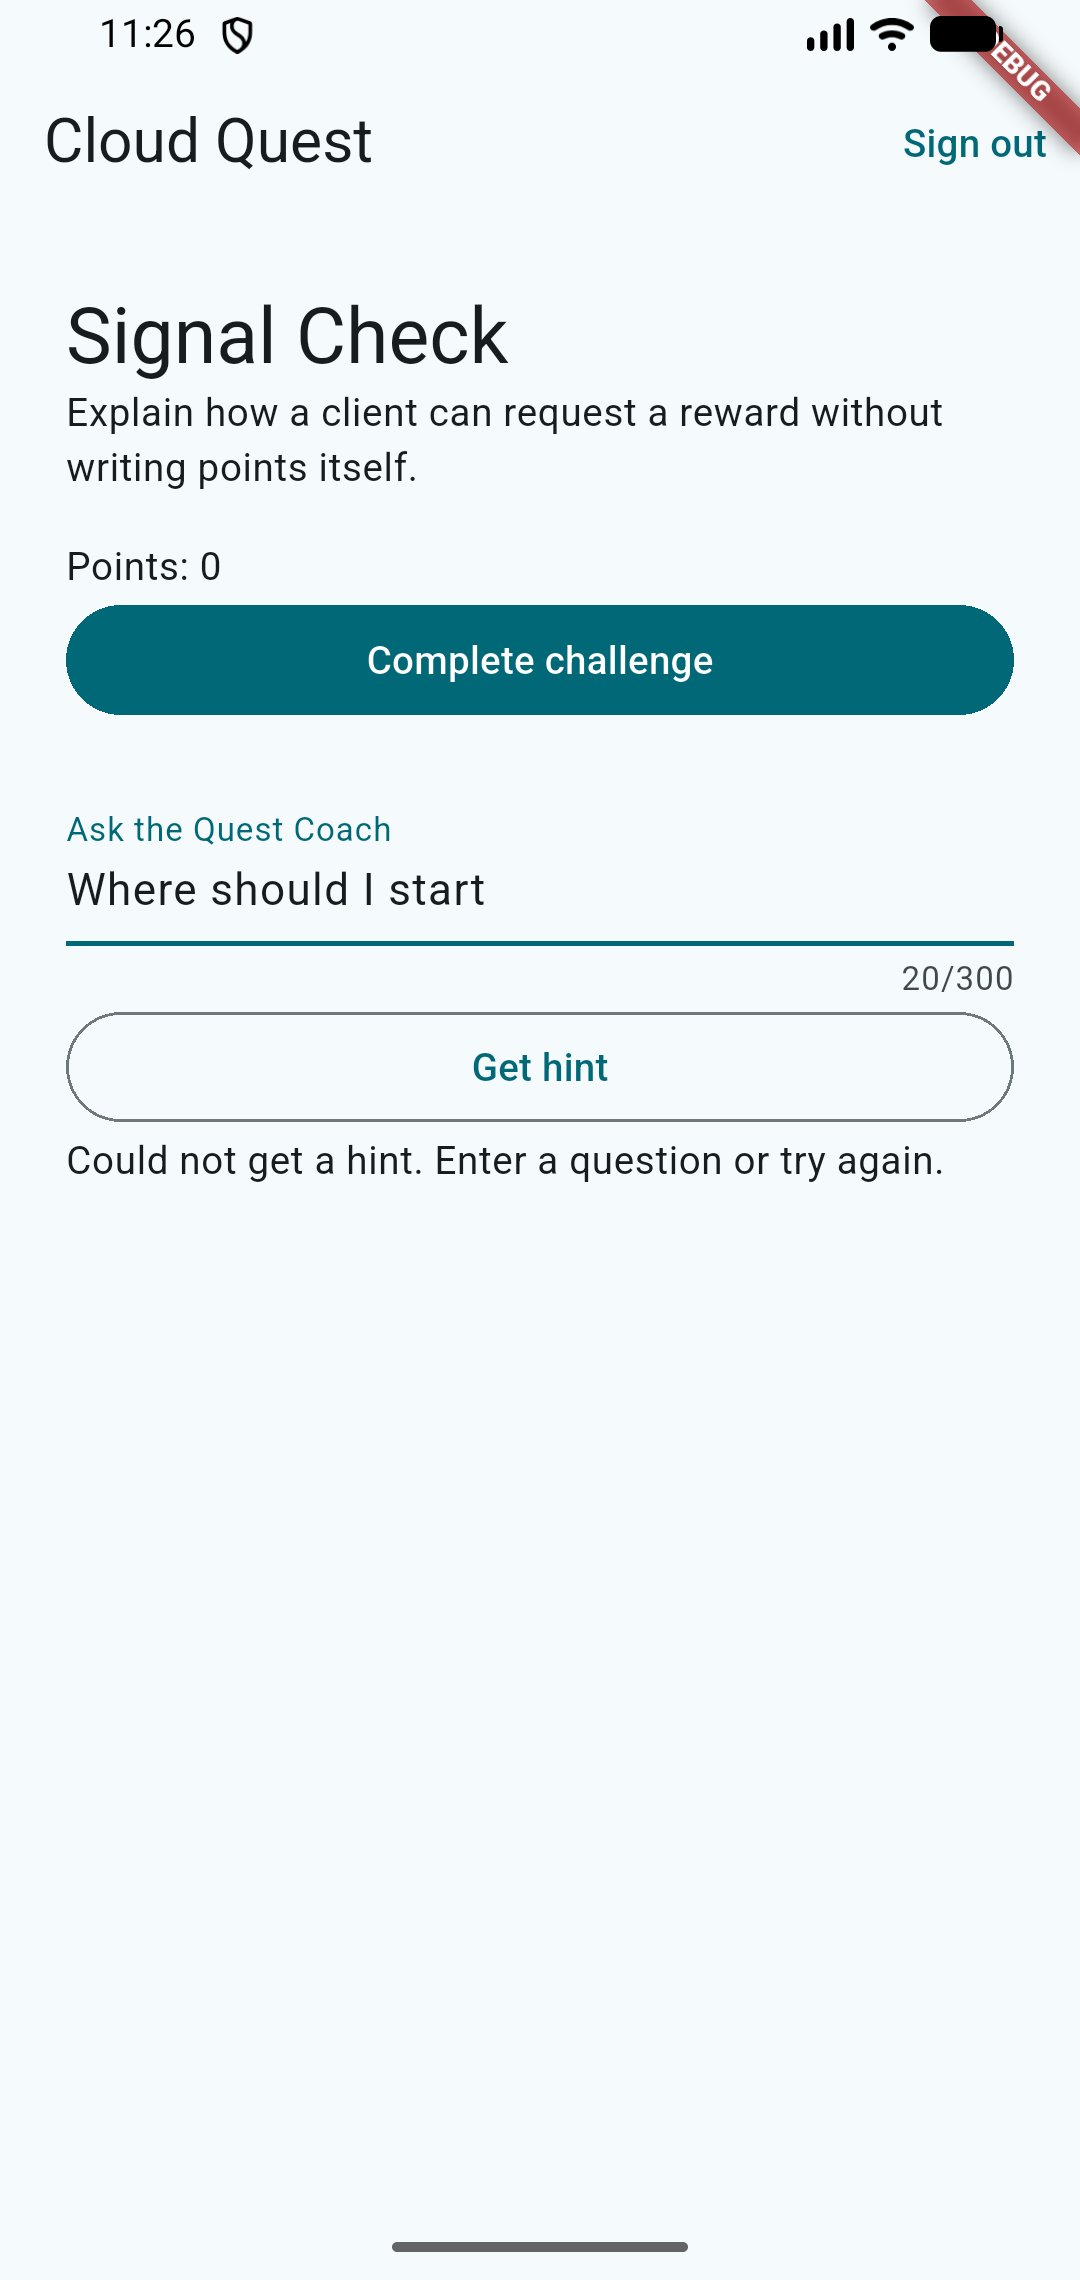
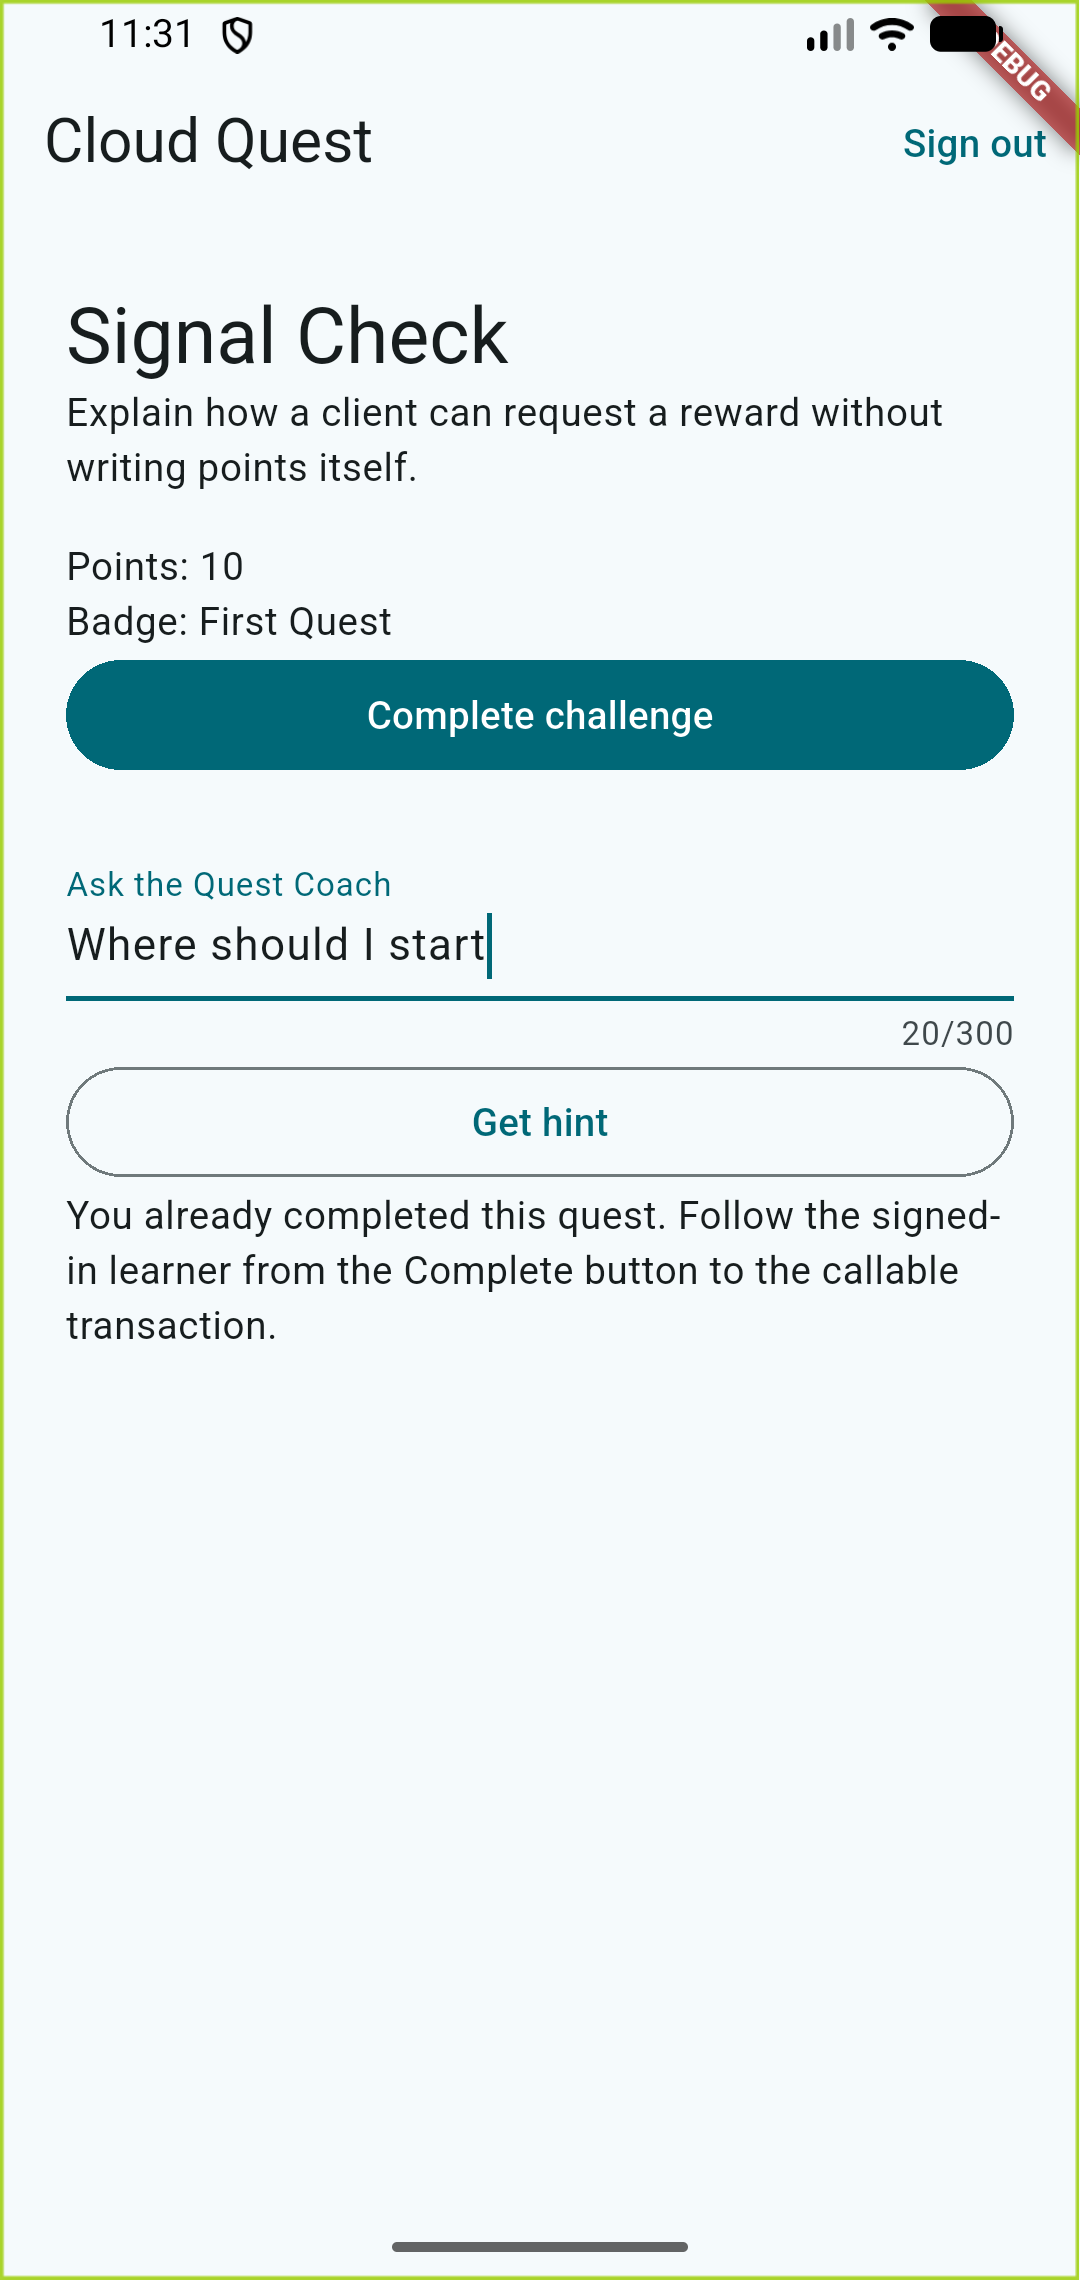
Connect Android to local callables and capture device results

diff --git a/lib/main.dart b/lib/main.dart
@@ -1,5 +1,7 @@
+import 'dart:convert';
+import 'dart:io';
+
 import 'package:cloud_firestore/cloud_firestore.dart';
-import 'package:cloud_functions/cloud_functions.dart';
 import 'package:firebase_auth/firebase_auth.dart';
 import 'package:firebase_core/firebase_core.dart';
 import 'package:flutter/material.dart';
@@ -17,7 +19,6 @@ Future<void> main() async {
   const host = '10.0.2.2';
   await FirebaseAuth.instance.useAuthEmulator(host, 9099);
   FirebaseFirestore.instance.useFirestoreEmulator(host, 8080);
-  FirebaseFunctions.instance.useFunctionsEmulator(host, 5001);
   runApp(const CloudQuest());
 }
 
@@ -154,10 +155,9 @@ class _QuestState extends State<Quest> {
       message = '';
     });
     try {
-      final callable = FirebaseFunctions.instance.httpsCallable(
-        complete ? 'completeToday' : 'askQuestCoach',
-      );
-      final result = await callable.call<Map<String, dynamic>>(
+      final name = complete ? 'completeToday' : 'askQuestCoach';
+      final result = await callLocalFunction(
+        name,
         complete
             ? {'challengeId': 'today'}
             : {'question': question.text.trim()},
@@ -165,12 +165,13 @@ class _QuestState extends State<Quest> {
       if (!mounted) return;
       setState(
         () => message = complete
-            ? (result.data['alreadyCompleted'] == true
+            ? (result['alreadyCompleted'] == true
                   ? 'Already completed. Your reward is unchanged.'
                   : 'You earned 10 points and the First Quest badge.')
-            : result.data['reply'] as String,
+            : result['reply'] as String,
       );
-    } on FirebaseFunctionsException {
+    } catch (error) {
+      debugPrint('Quest request failed: $error');
       if (mounted) {
         setState(
           () => message = complete
@@ -254,4 +255,30 @@ class _QuestState extends State<Quest> {
       },
     ),
   );
+}
+
+Future<Map<String, dynamic>> callLocalFunction(
+  String name,
+  Map<String, String> data,
+) async {
+  final token = await FirebaseAuth.instance.currentUser?.getIdToken();
+  if (token == null) throw StateError('Sign in first');
+  final client = HttpClient()..connectionTimeout = const Duration(seconds: 8);
+  try {
+    final request = await client.postUrl(
+      Uri.parse('http://10.0.2.2:5001/demo-cloud-quest/us-central1/$name'),
+    );
+    request.headers.contentType = ContentType.json;
+    request.headers.set(HttpHeaders.authorizationHeader, 'Bearer $token');
+    request.write(jsonEncode({'data': data}));
+    final response = await request.close().timeout(const Duration(seconds: 10));
+    final body = await utf8.decoder.bind(response).join();
+    if (response.statusCode != 200) {
+      throw HttpException('Callable returned ${response.statusCode}');
+    }
+    return (jsonDecode(body) as Map<String, dynamic>)['result']
+        as Map<String, dynamic>;
+  } finally {
+    client.close(force: true);
+  }
 }

diff --git a/README.md b/README.md
@@ -30,3 +30,5 @@ The coach callable authenticates the caller and validates the question. Its only
 The mock verifies the local data and reward boundaries. Live Genkit/model behavior and the course Firebase project were not verified. Codex assisted with implementation and testing.
 
 Android evidence and the Firebase emulator test output are in [evidence/](evidence/).
+
+On the AdaptiveFocus_Pixel4 Android 17 emulator, a fictional learner signed in, loaded Signal Check, received the grounded mock hint, collected 10 points and the First Quest badge, retried without a duplicate, and signed out. The Android client uses the callable HTTP protocol against the local Functions emulator.
